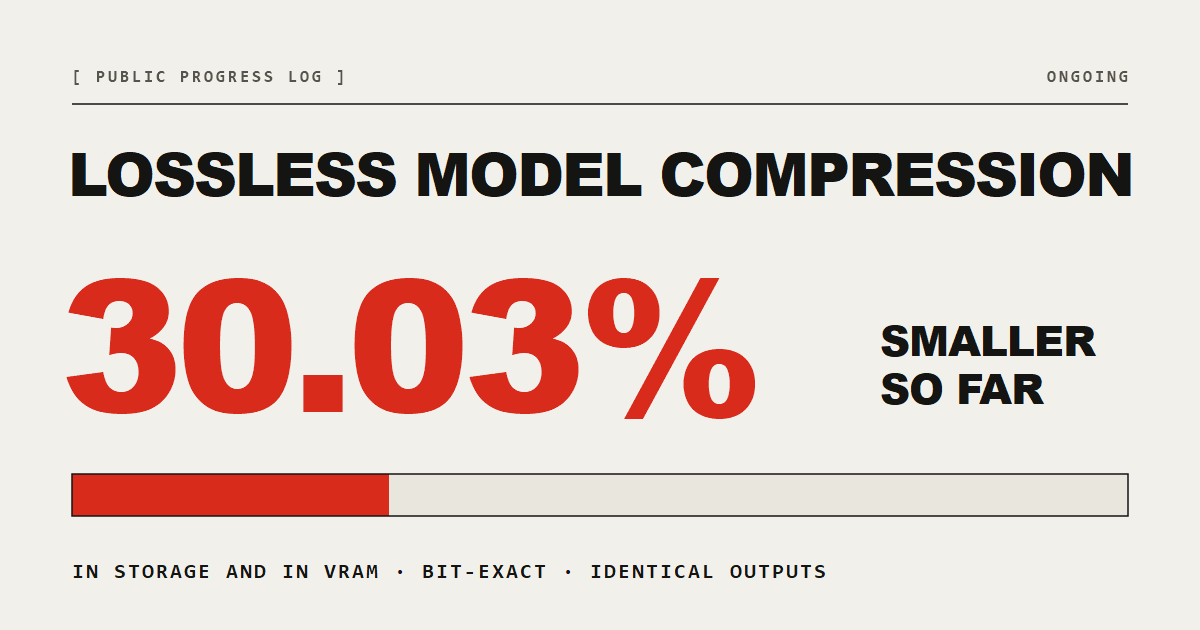
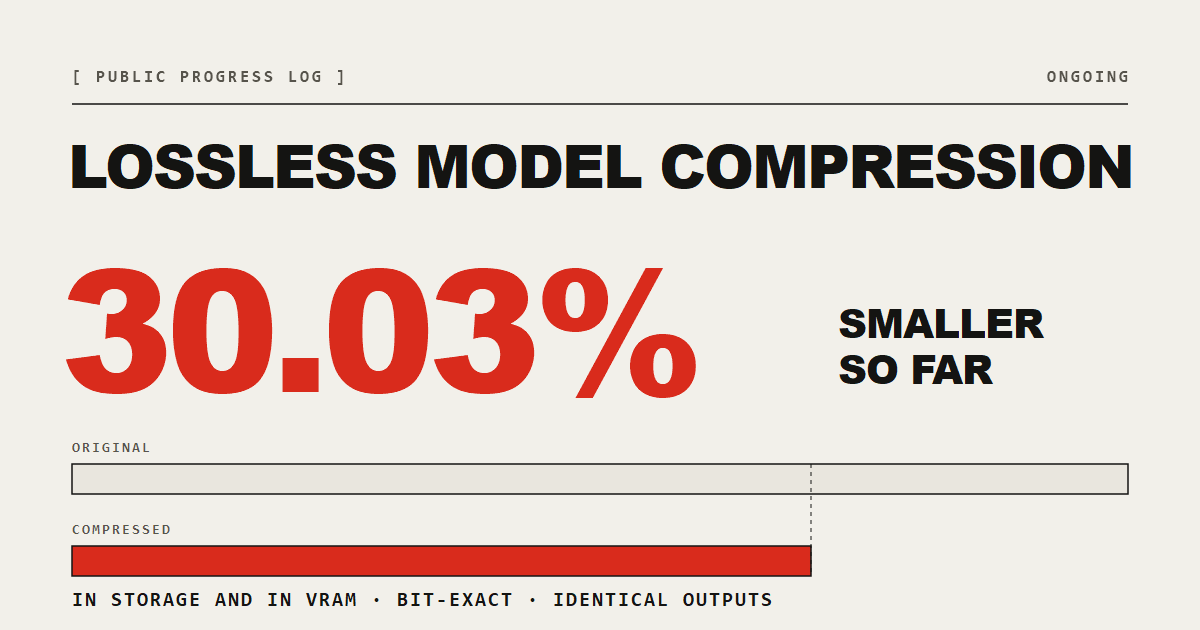
Use before/after size bars on SEO card
Claude-Session: https://claude.ai/code/session_01N3E1ntupchLayXwgCg7hMp

diff --git a/index.html b/index.html
@@ -10,12 +10,12 @@
 <meta property="og:url" content="https://brianbell-x.github.io/weight-compression/" />
 <meta property="og:title" content="Lossless Model Compression Experiment" />
 <meta property="og:description" content="30% smaller so far, in storage and in VRAM. The weights reconstruct bit-for-bit, so the model computes exactly the same thing." />
-<meta property="og:image" content="https://brianbell-x.github.io/weight-compression/og.png?v=20260703c" />
+<meta property="og:image" content="https://brianbell-x.github.io/weight-compression/og.png?v=20260703d" />
 <meta property="og:image:width" content="1200" />
 <meta property="og:image:height" content="630" />
 <meta property="og:image:alt" content="Progress card: lossless model compression, 30.03% smaller so far." />
 <meta name="twitter:card" content="summary_large_image" />
-<meta name="twitter:image" content="https://brianbell-x.github.io/weight-compression/og.png?v=20260703c" />
+<meta name="twitter:image" content="https://brianbell-x.github.io/weight-compression/og.png?v=20260703d" />
 <link rel="icon" href="data:,">
 <link rel="preconnect" href="https://fonts.googleapis.com">
 <link rel="preconnect" href="https://fonts.gstatic.com" crossorigin>